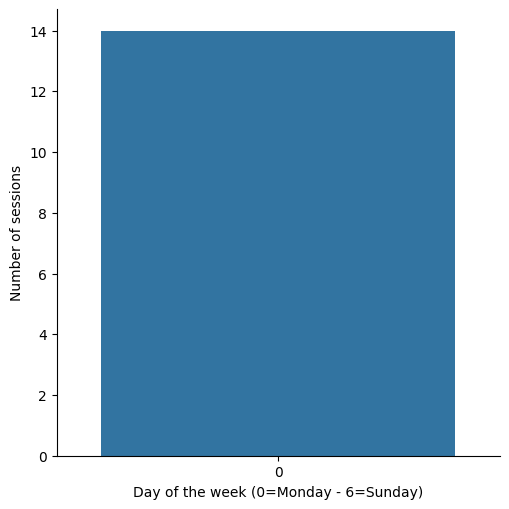
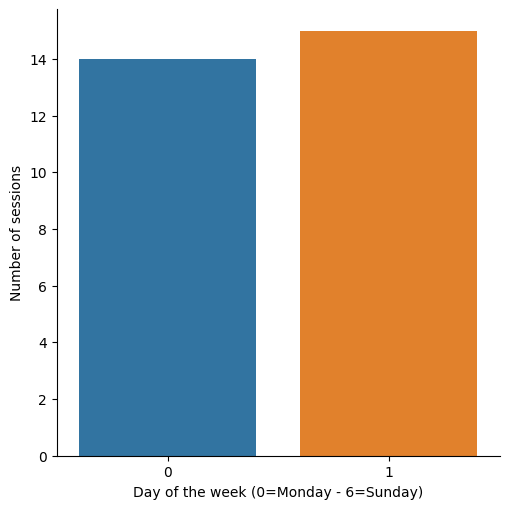
"Stats generated 2021-11-03"

diff --git a/all/2021/11/weekdays/1/index.html b/all/2021/11/weekdays/1/index.html
@@ -1,0 +1,29 @@
+<!DOCTYPE html>
+<html>
+  <head>
+    <meta charset="utf-8"/>
+    <title>Tuesdays November 2021</title>
+    <link rel="stylesheet" href="../../../../../styles.css"/>
+  </head>
+  <body>
+    <div id="container">
+      <nav>
+        <ul>
+          
+            <li><a href="../../">November 2021</a></li>
+            <li class="separator"></li>
+          
+          
+        </ul>
+      </nav>
+      <main>
+        <h1>Tuesdays November 2021</h1>
+        
+          <h2>Number of sessions per hour</h2>
+          <img src="sessions.png" alt="Number of sessions per hour"/>
+        
+        
+      </main>
+    </div>
+  </body>
+</html>

diff --git a/all/2021/11/days/2/index.html b/all/2021/11/days/2/index.html
@@ -1,0 +1,29 @@
+<!DOCTYPE html>
+<html>
+  <head>
+    <meta charset="utf-8"/>
+    <title>2 November 2021</title>
+    <link rel="stylesheet" href="../../../../../styles.css"/>
+  </head>
+  <body>
+    <div id="container">
+      <nav>
+        <ul>
+          
+            <li><a href="../../">November 2021</a></li>
+            <li class="separator"></li>
+          
+          
+        </ul>
+      </nav>
+      <main>
+        <h1>2 November 2021</h1>
+        
+          <h2>Number of sessions per hour</h2>
+          <img src="sessions.png" alt="Number of sessions per hour"/>
+        
+        
+      </main>
+    </div>
+  </body>
+</html>

diff --git a/all/2021/11/index.html b/all/2021/11/index.html
@@ -23,11 +23,19 @@
             
           
             
+              <li><a href="weekdays/1/">Tuesday</a></li>
+            
+          
+            
               <li><span>Day of Month</span></li>
             
           
             
               <li><a href="days/1/">1</a></li>
+            
+          
+            
+              <li><a href="days/2/">2</a></li>
             
           
         </ul>

diff --git a/all/2021/index.html b/all/2021/index.html
@@ -157,9 +157,9 @@
                   
                     <td>11.0</td>
                   
-                    <td>14.0</td>
+                    <td>29.0</td>
                   
-                    <td>28.72549899166667</td>
+                    <td>32.03416851666667</td>
                   
                 </tr>
               
